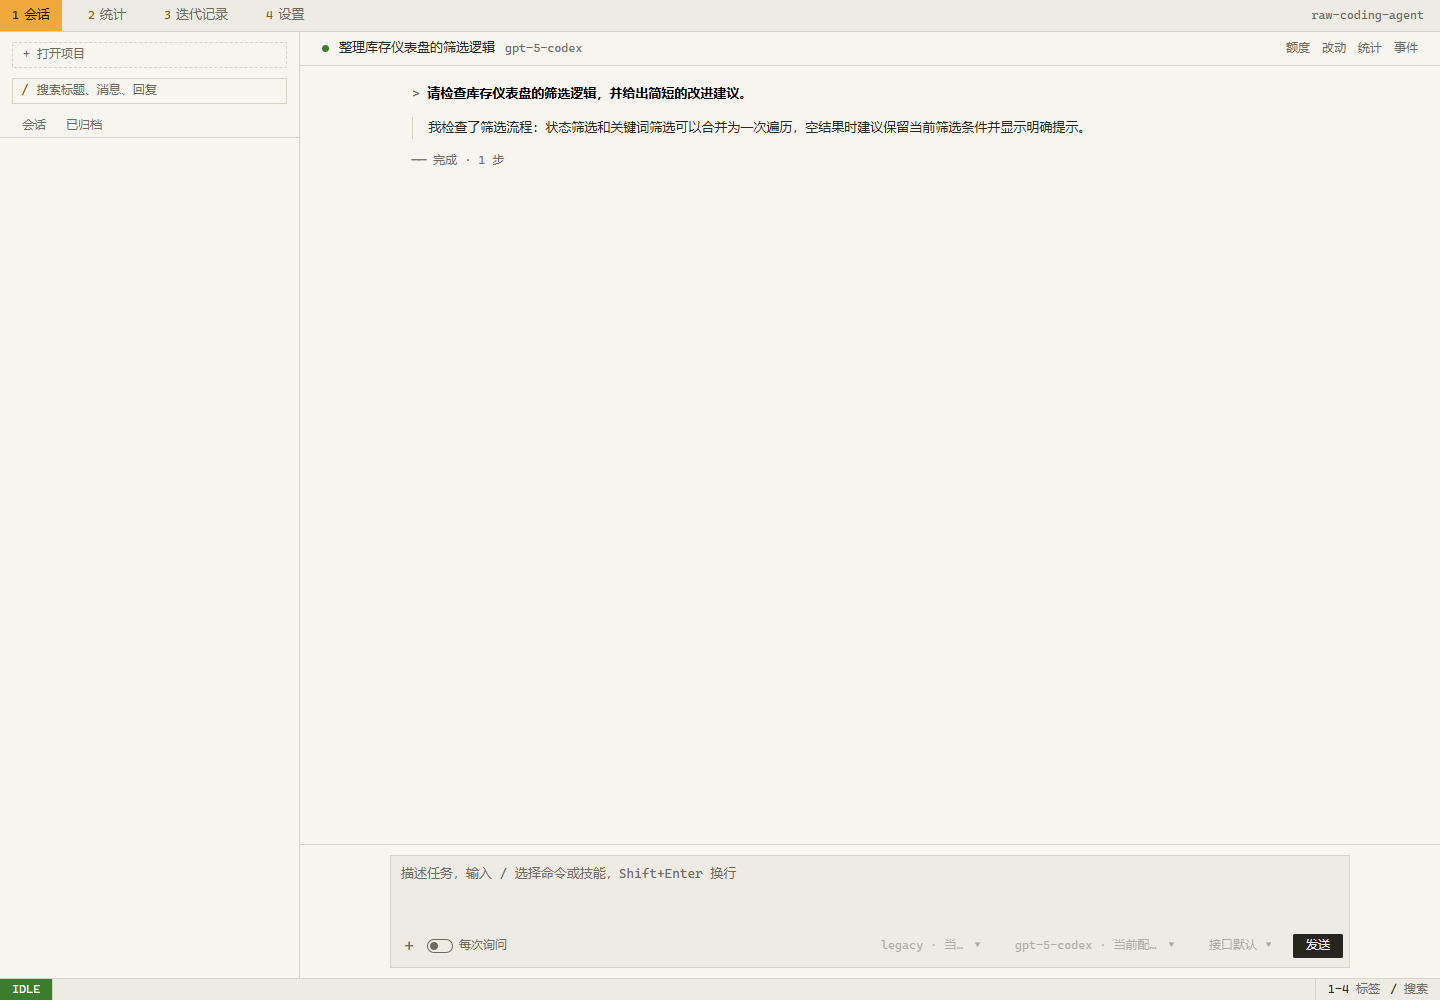
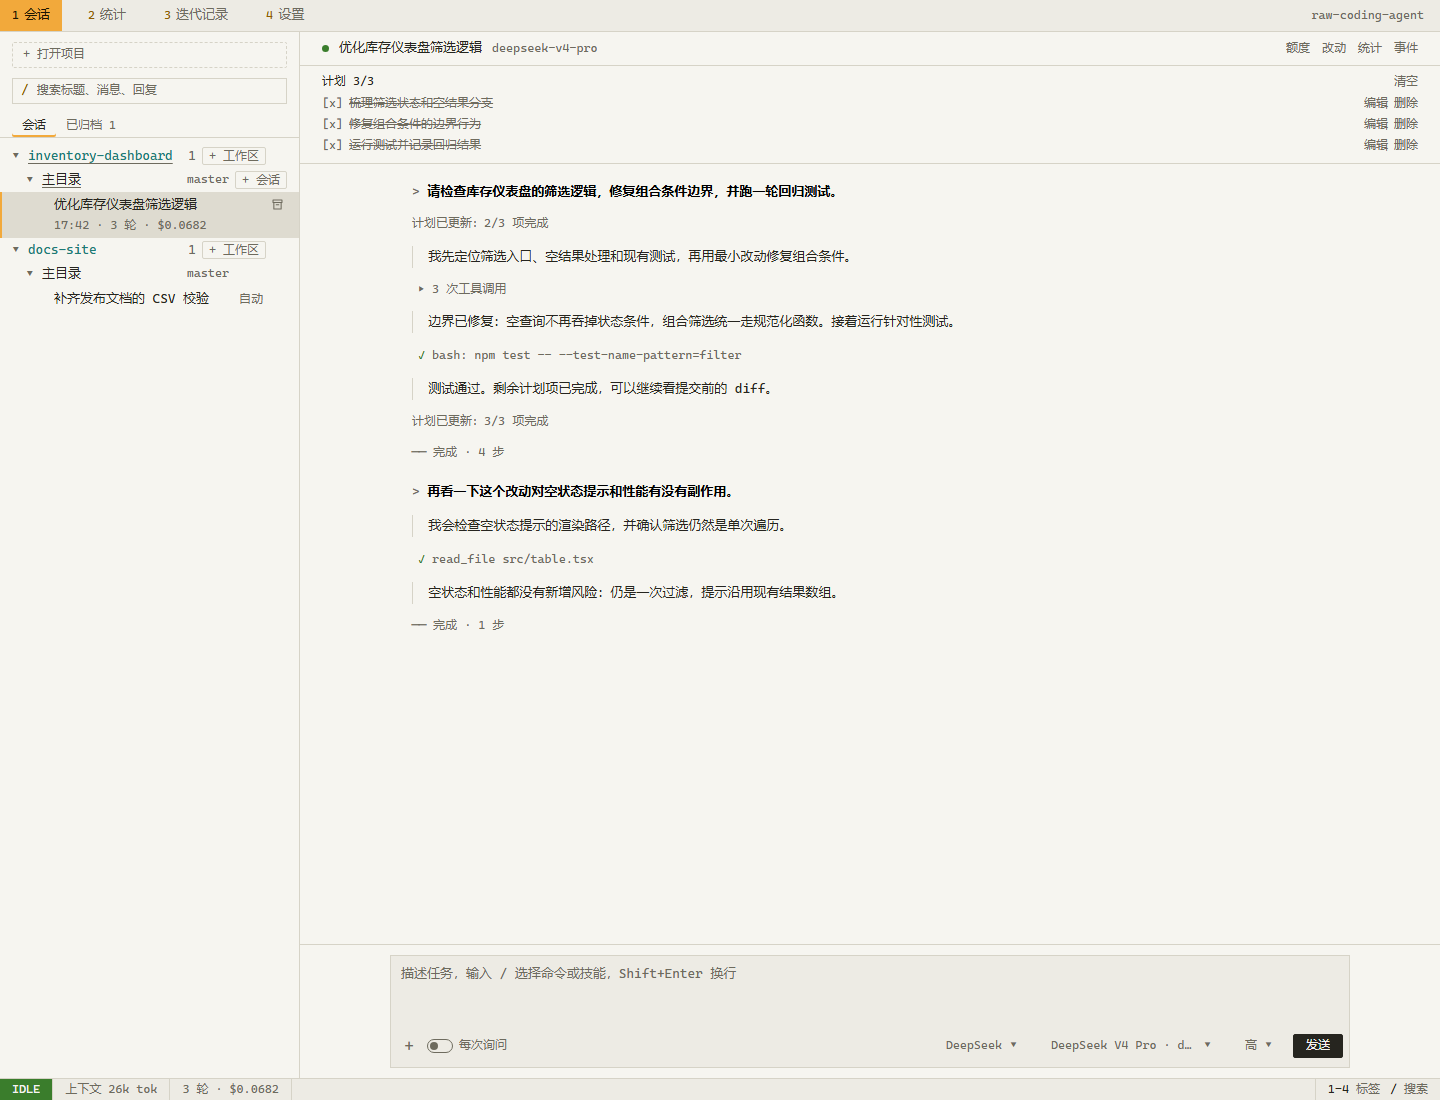
docs: add richer GUI screenshots

diff --git a/README.md b/README.md
@@ -72,11 +72,17 @@ npm run gui                              # 终端会打印带 token 的地址，
 npm run gui -- --cwd ../some-repo        # 可选：顺便把这个目录加入项目列表
 ```
 
-![网页界面：项目和会话列表](docs/screenshots/web-ui.png)
+![网页界面：项目、工作区和会话列表](docs/screenshots/web-ui.png)
 
 ![网页界面：会话对话页](docs/screenshots/web-ui-session.png)
 
-上面的截图使用本地伪造会话数据生成，只展示界面结构，不包含真实项目内容。
+![网页界面：会话统计、token、成本和 span 瀑布图](docs/screenshots/web-ui-stats.png)
+
+![网页界面：迭代记录、模块筛选和提交详情入口](docs/screenshots/web-ui-iterations.png)
+
+![网页界面：模型、厂商连接和会话额度设置](docs/screenshots/web-ui-settings.png)
+
+上面的截图使用临时目录中的伪造会话数据生成，只展示界面结构，不包含真实项目内容。截图脚本见 [`scripts/capture-screenshots.mjs`](scripts/capture-screenshots.mjs)；样式或界面变动后运行 `npm run screenshots` 可一次性更新全部截图，首次运行需要先执行 `npx playwright install chromium`。
 
 - **项目**：在侧边栏点"+ 打开项目"，再点"选择…"弹出系统的文件夹选择框（macOS 用 `osascript`，Windows 用 PowerShell，Linux 需要 `zenity`），也可以在输入框里填路径（支持 `~`）后点"打开"。可以同时打开多个，列表保存在 `.projects.json`（旧的 `.workspaces.json` 会自动改名过来），下次启动不用再给 `--cwd`。项目通常是一个 git 仓库，也可以是仓库里的子目录或者普通文件夹。移除项目只是从列表拿掉，不删文件、worktree 和会话（会话会出现在"其他"分组）。
 - **工作区**（git worktree，参考 [Orca](https://github.com/stablyai/orca)）：项目下面列出它的工作区，第一个是项目目录本身（"主目录"），其余是这个仓库的 git worktree，每个显示分支和未提交的文件数。会话属于某个工作区，在工作区上点"+ 会话"就在那个目录里工作；不同工作区的会话改文件互不干扰。
